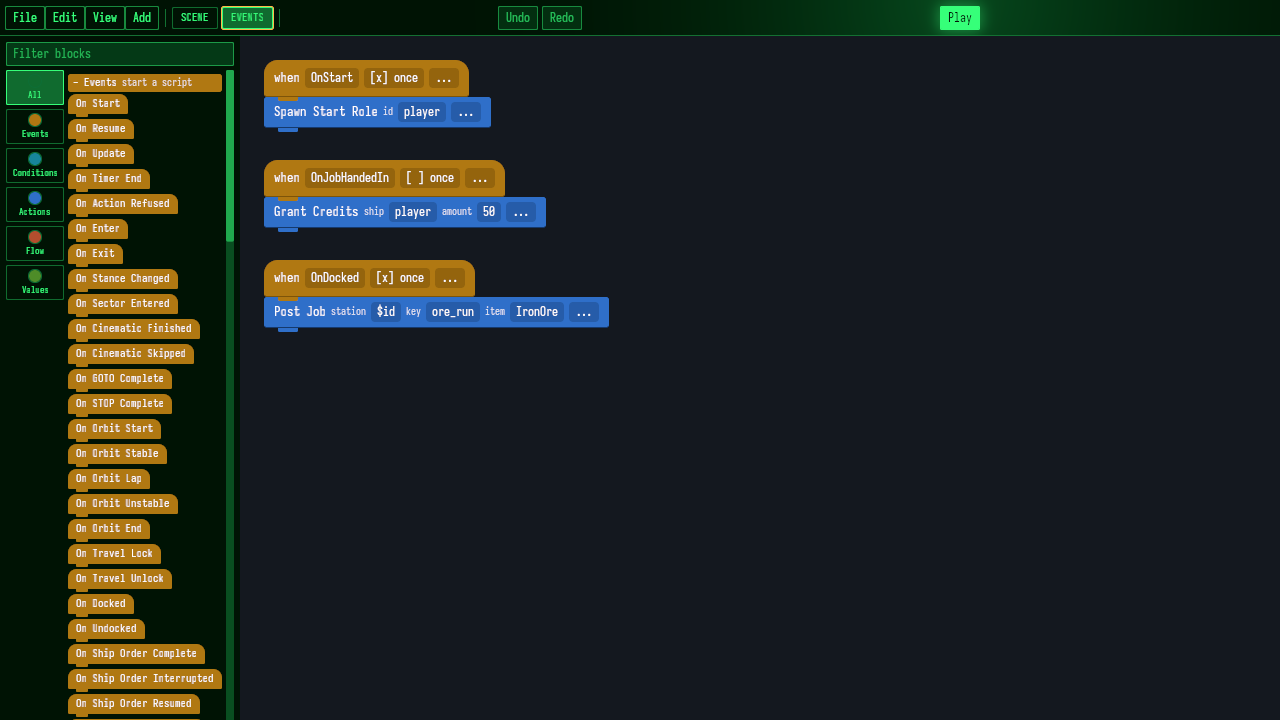
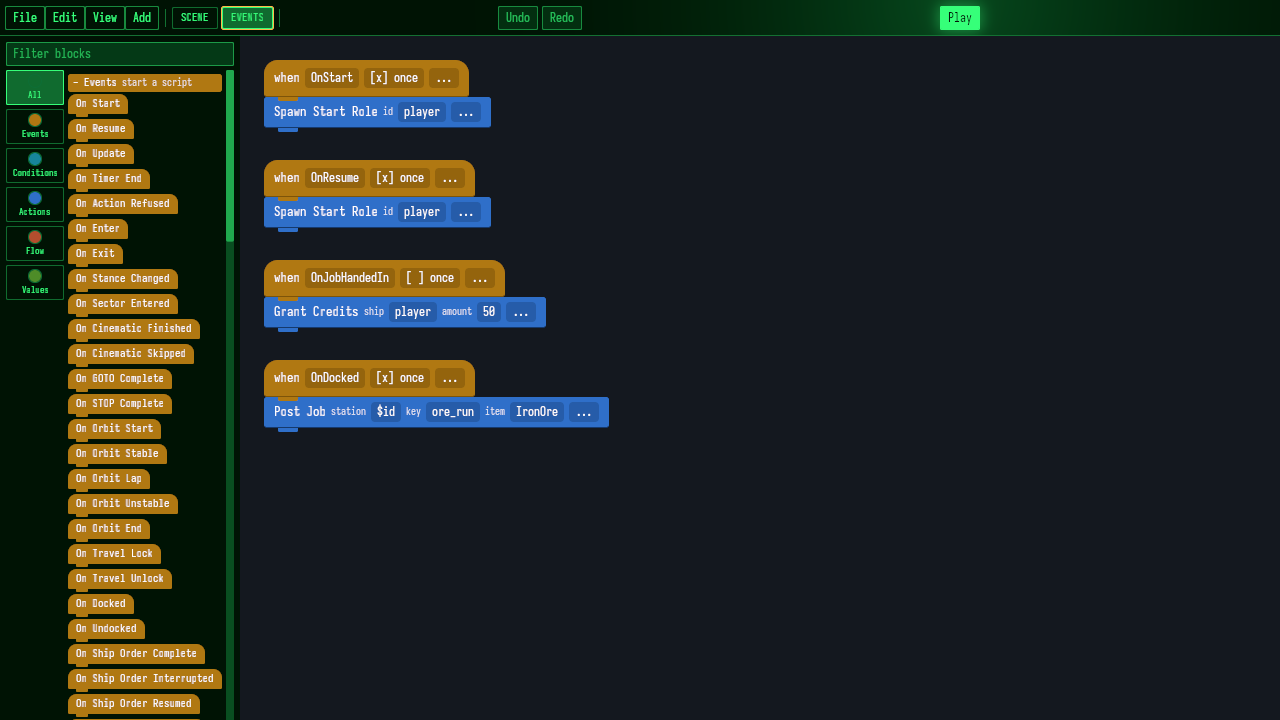
Re-shoot two v0.18.0 news stills
The Events canvas still now shows four handlers on a file that the
Problems tab accepts, and the Station Control still shows the comms
card clear of the key row. The Events caption drops the note on the
false Problems errors and names the two start-role stacks.

Changed region(s): [[0.1875, 0.4889, 0.5, 0.6111], [0.2188, 0.3667, 0.5, 0.4583], [0.2188, 0.2139, 0.4375, 0.3361]]

diff --git a/web/src/news/0.18.0.md b/web/src/news/0.18.0.md
@@ -445,9 +445,9 @@ adds a chip that lists the items the mod sees.
     <div class="figure__placeholder">
         <span class="figure__placeholder-tag">Image</span>
         <span class="figure__placeholder-name">assets/news-0180-events-blocks.png</span>
-        <span class="figure__placeholder-note">The Events canvas of the mod editor with three stacks: an OnStart hat over a Spawn Start Role block, an OnJobHandedIn hat over a Grant Credits block of 50 credits, and an OnDocked hat over a Post Job block with the station $id, the key ore_run and the item IronOre. The palette on the left lists the event hats.</span>
+        <span class="figure__placeholder-note">The Events canvas of the mod editor with four stacks: an OnStart hat and an OnResume hat, each over a Spawn Start Role block, an OnJobHandedIn hat over a Grant Credits block of 50 credits, and an OnDocked hat over a Post Job block with the station $id, the key ore_run and the item IronOre. The palette on the left lists the event hats.</span>
     </div>
-    <figcaption class="figure__caption">The handler above, as blocks. The frame shows the canvas; it does not run the scenario. The mod file was written by hand and opened in the editor: nobody dragged these blocks. The Post Job block folds its count and its reward behind the last chip. The frame is the upper left of the editor window. In this build the Problems tab under it lists these blocks as errors, because the editor checks an open scenario as a Void world.</figcaption>
+    <figcaption class="figure__caption">The handler above, as blocks, last of four stacks. The first two spawn the player's ship, at a new game and at a load. The frame shows the canvas; it does not run the scenario. The mod file was written by hand and opened in the editor: nobody dragged these blocks. The Post Job block folds its count and its reward behind the last chip. The frame is the upper left of the editor window.</figcaption>
 </figure>
 
 ## More in v0.18.0
